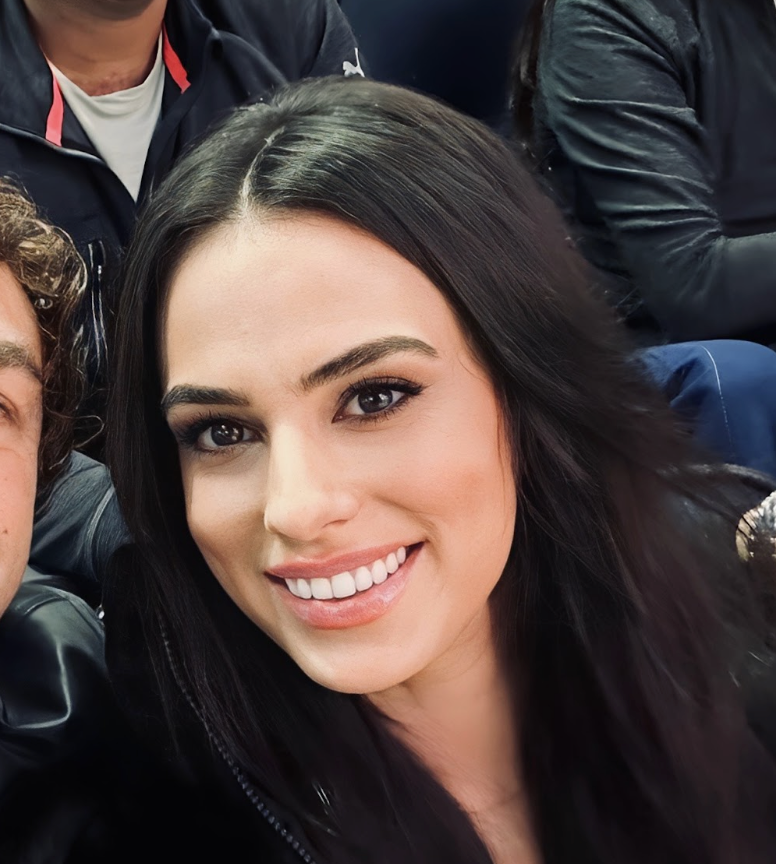
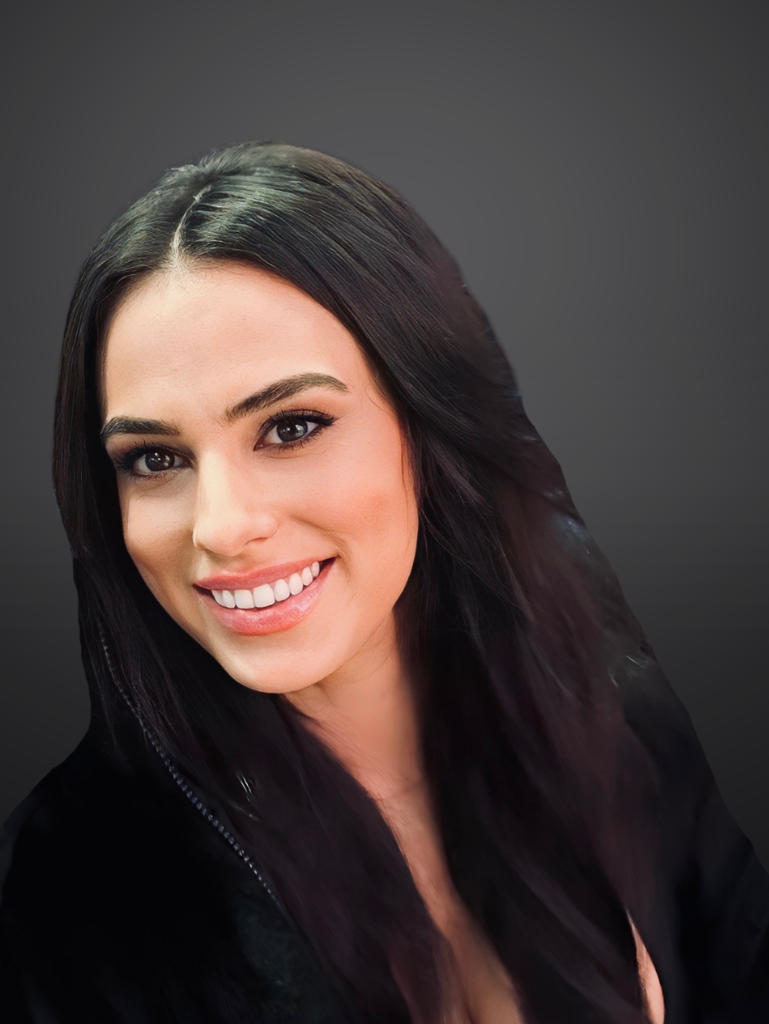
Restore CTAs to cash-flow-freedom page and update team photos

diff --git a/app/team/page.tsx b/app/team/page.tsx
@@ -37,24 +37,16 @@ export default function TeamPage() {
       image: "/team/danielFrank.jpeg",
     },
     {
-      name: "Michelle Gusov",
-      title: "Lead Processor",
-      bio: "Michelle manages our loan processing division, ensuring smooth and efficient loan closings for all our clients.",
-      phone: "(555) 123-4570",
-      email: "michelle@keyrealestatecapital.com",
-      image: "/placeholder.svg?height=300&width=300",
-    },
-    {
       name: "Tommy Loutzenheiser",
       title: "Chief Technology Officer",
       bio: "Tommy drives growth at Key Real Estate Capital by blending strategic lending knowledge with efficient technology integration and automation. His work focuses on building marketing systems, streamlining workflows, and creating messaging that converts—helping the company scale efficiently while facilitating smooth deal flow. By combining tech with clear communication, Tommy ensures Key Real Estate Capital operates at its highest level. Away from work, Tommy enjoys surfing, hitting the gym and spending time outdoors.",
       phone: "(555) 123-4571",
       email: "tommy@keyrealestatecapital.com",
-      image: "/team/tommyLoutzenheiser.jpeg",
+      image: "/team/tommyLoutzenheiser.png",
     },
 
     {
-      name: "Sebastian Muendo",
+      name: "Sebastian Muenda",
       title: "Account Executive",
       bio: "At Key Real Estate Capital, Sebastian blends his passion for financial empowerment with a client-first philosophy rooted in empathy, overdelivering, and unwavering commitment. He believes that clear communication and affordable financing solutions are the foundation for helping individuals and families achieve true financial freedom. Sebastian cares deeply about people growing their wealth, not just for the sake of money, but to create a life filled with more time, joy, and connection with loved ones.",
       phone: "(555) 123-4573",
@@ -112,7 +104,9 @@ export default function TeamPage() {
                     height={300}
                     className={`w-full h-full object-cover transition-transform duration-300 ${
                       member.name === "Tommy Loutzenheiser" 
-                        ? "object-center scale-150" 
+                        ? "object-top scale-150" 
+                        : member.name === "Lindsay Milano"
+                        ? "object-center"
                         : "object-top"
                     }`}
                   />

diff --git a/app/cash-flow-freedom/page.tsx b/app/cash-flow-freedom/page.tsx
@@ -80,12 +80,12 @@ export default function CashFlowFreedomPage() {
       </nav>
       
 
-      <HeroSection />
-      <CaseStudiesSection />
-      <CallForYouSection />
-      <TestimonialsSection />
-      <GuaranteeSection />
-      <CallBenefitsSection />
+      <HeroSection onOpenModal={openModal} />
+      <CaseStudiesSection onOpenModal={openModal} />
+      <CallForYouSection onOpenModal={openModal} />
+      <TestimonialsSection onOpenModal={openModal} />
+      <GuaranteeSection onOpenModal={openModal} />
+      <CallBenefitsSection onOpenModal={openModal} />
       <ContactFormSection />
 
 
@@ -94,23 +94,6 @@ export default function CashFlowFreedomPage() {
       
       {/* Footer */}
       <footer className="bg-black text-white">
-        {/* Newsletter Section */}
-        <div className="border-b border-light-green/20 bg-perry">
-          <div className="max-w-7xl mx-auto px-4 sm:px-6 lg:px-8 py-12">
-            <div className="text-center">
-              <h3 className="text-2xl font-light mb-4">Stay Informed</h3>
-              <p className="text-white font-light mb-6 max-w-2xl mx-auto">
-                Get the latest market insights, investment strategies, and financing updates delivered to your inbox.
-              </p>
-              <div className="flex justify-center">
-                <button className="bg-light-green hover:bg-white text-white hover:text-perry font-light px-8 py-4 text-lg transition-colors">
-                  Join Our Newsletter
-                </button>
-              </div>
-            </div>
-          </div>
-        </div>
-
         {/* Main Footer Content */}
         <div className="max-w-7xl mx-auto px-4 sm:px-6 lg:px-8 py-16">
           <div className="grid grid-cols-1 md:grid-cols-3 gap-8">

diff --git a/app/cash-flow-freedom/components/CallBenefitsSection.tsx b/app/cash-flow-freedom/components/CallBenefitsSection.tsx
@@ -1,6 +1,12 @@
 "use client"
 
-export default function CallBenefitsSection() {
+import { Button } from '@/components/ui/button'
+
+interface CallBenefitsSectionProps {
+  onOpenModal: () => void
+}
+
+export default function CallBenefitsSection({ onOpenModal }: CallBenefitsSectionProps) {
 
   return (
     <section className="py-12 sm:py-16 lg:py-24 bg-[#F2F2F2]">
@@ -11,6 +17,17 @@ export default function CallBenefitsSection() {
             <h2 className="text-2xl sm:text-3xl md:text-4xl lg:text-5xl font-medium text-gray-900 mb-6 sm:mb-8 leading-tight">
               What You'll Walk Away From The Call With
             </h2>
+            
+            {/* CTA Button - Desktop only */}
+            <div className="hidden lg:block">
+              <Button
+                onClick={onOpenModal}
+                size="lg"
+                className="bg-[#02736D] hover:bg-[#025a54] text-white font-normal px-8 py-4 text-lg rounded-lg"
+              >
+                Book Free Investor Qualifying Call →
+              </Button>
+            </div>
           </div>
 
           {/* Right side - 2x2 Grid of Benefits */}
@@ -43,6 +60,17 @@ export default function CallBenefitsSection() {
               </p>
             </div>
           </div>
+        </div>
+        
+        {/* CTA Button - Mobile and Tablet only */}
+        <div className="flex justify-center mt-12 lg:hidden">
+          <Button
+            onClick={onOpenModal}
+            size="lg"
+            className="bg-[#02736D] hover:bg-[#025a54] text-white font-normal px-8 py-4 text-lg rounded-lg"
+          >
+            Book Free Investor Qualifying Call →
+          </Button>
         </div>
         
       </div>

diff --git a/app/cash-flow-freedom/components/GuaranteeSection.tsx b/app/cash-flow-freedom/components/GuaranteeSection.tsx
@@ -1,6 +1,12 @@
 "use client"
 
-export default function GuaranteeSection() {
+import { Button } from '@/components/ui/button'
+
+interface GuaranteeSectionProps {
+  onOpenModal: () => void
+}
+
+export default function GuaranteeSection({ onOpenModal }: GuaranteeSectionProps) {
 
   return (
     <section className="py-12 sm:py-16 lg:py-24">
@@ -28,6 +34,17 @@ export default function GuaranteeSection() {
             <p className="text-lg sm:text-xl text-gray-600 font-light mb-6 sm:mb-8">
               When you sign up for our complete done-for-you service, we guarantee to place you into a cash-flowing investment property within 90 days, or we will contractually buy back the property from you, leaving you with no liability or responsibility thereafter.
             </p>
+            
+            {/* CTA Button */}
+            <div className="flex justify-center lg:justify-start">
+              <Button
+                onClick={onOpenModal}
+                size="lg"
+                className="bg-[#02736D] hover:bg-[#025a54] text-white font-normal px-8 py-4 text-lg rounded-lg"
+              >
+                Book Free Investor Qualifying Call →
+              </Button>
+            </div>
           </div>
         </div>
       </div>

diff --git a/app/cash-flow-freedom/components/HeroSection.tsx b/app/cash-flow-freedom/components/HeroSection.tsx
@@ -1,8 +1,13 @@
 "use client"
 
 import { useEffect, useRef } from 'react'
+import { Button } from '@/components/ui/button'
 
-export default function HeroSection() {
+interface HeroSectionProps {
+  onOpenModal: () => void
+}
+
+export default function HeroSection({ onOpenModal }: HeroSectionProps) {
   const videoRef = useRef<HTMLVideoElement>(null)
 
   // Ensure video auto-plays
@@ -49,6 +54,17 @@ export default function HeroSection() {
         <p className="text-black text-base sm:text-lg lg:text-[20px] font-normal mb-8 sm:mb-12 leading-relaxed">
           From <span className="font-semibold text-[#02736D]">Real Estate Millionaire</span> <span className="text-black">Keyan Chang</span>
         </p>
+        
+        {/* CTA Button */}
+        <div className="flex justify-center">
+          <Button
+            onClick={onOpenModal}
+            size="lg"
+            className="bg-[#02736D] hover:bg-[#025a54] text-white font-normal px-8 py-4 text-lg rounded-lg"
+          >
+            Book Free Investor Qualifying Call →
+          </Button>
+        </div>
         
       </div>
     </section>

diff --git a/app/cash-flow-freedom/components/TestimonialsSection.tsx b/app/cash-flow-freedom/components/TestimonialsSection.tsx
@@ -1,8 +1,13 @@
 "use client"
 
 import { useAutoScroll } from '../hooks/useAutoScroll'
+import { Button } from '@/components/ui/button'
 
-export default function TestimonialsSection() {
+interface TestimonialsSectionProps {
+  onOpenModal: () => void
+}
+
+export default function TestimonialsSection({ onOpenModal }: TestimonialsSectionProps) {
   const { scrollContainerRef } = useAutoScroll()
 
   return (
@@ -123,6 +128,16 @@ export default function TestimonialsSection() {
           </div>
         </div>
 
+        {/* CTA Button */}
+        <div className="flex justify-center mt-12">
+          <Button
+            onClick={onOpenModal}
+            size="lg"
+            className="bg-[#02736D] hover:bg-[#025a54] text-white font-normal px-8 py-4 text-lg rounded-lg"
+          >
+            Book Free Investor Qualifying Call →
+          </Button>
+        </div>
 
       </div>
     </section>

diff --git a/app/cash-flow-freedom/components/CaseStudiesSection.tsx b/app/cash-flow-freedom/components/CaseStudiesSection.tsx
@@ -1,8 +1,13 @@
 "use client"
 
 import { useAutoScroll } from '../hooks/useAutoScroll'
+import { Button } from '@/components/ui/button'
 
-export default function CaseStudiesSection() {
+interface CaseStudiesSectionProps {
+  onOpenModal: () => void
+}
+
+export default function CaseStudiesSection({ onOpenModal }: CaseStudiesSectionProps) {
   const { scrollContainerRef } = useAutoScroll()
 
   return (
@@ -155,6 +160,16 @@ export default function CaseStudiesSection() {
           </div>
         </div>
 
+        {/* CTA Button */}
+        <div className="flex justify-center mt-12">
+          <Button
+            onClick={onOpenModal}
+            size="lg"
+            className="bg-[#02736D] hover:bg-[#025a54] text-white font-normal px-8 py-4 text-lg rounded-lg"
+          >
+            Book Free Investor Qualifying Call →
+          </Button>
+        </div>
 
       </div>
     </section>

diff --git a/app/cash-flow-freedom/components/CallForYouSection.tsx b/app/cash-flow-freedom/components/CallForYouSection.tsx
@@ -1,6 +1,12 @@
 "use client"
 
-export default function CallForYouSection() {
+import { Button } from '@/components/ui/button'
+
+interface CallForYouSectionProps {
+  onOpenModal: () => void
+}
+
+export default function CallForYouSection({ onOpenModal }: CallForYouSectionProps) {
 
   return (
     <section className="py-12 sm:py-16 lg:py-24 bg-gray-50/30">
@@ -52,6 +58,17 @@ export default function CallForYouSection() {
               />
             </div>
           </div>
+        </div>
+
+        {/* CTA Button */}
+        <div className="flex justify-center mt-12">
+          <Button
+            onClick={onOpenModal}
+            size="lg"
+            className="bg-[#02736D] hover:bg-[#025a54] text-white font-normal px-8 py-4 text-lg rounded-lg"
+          >
+            Book Free Investor Qualifying Call →
+          </Button>
         </div>
 
       </div>
